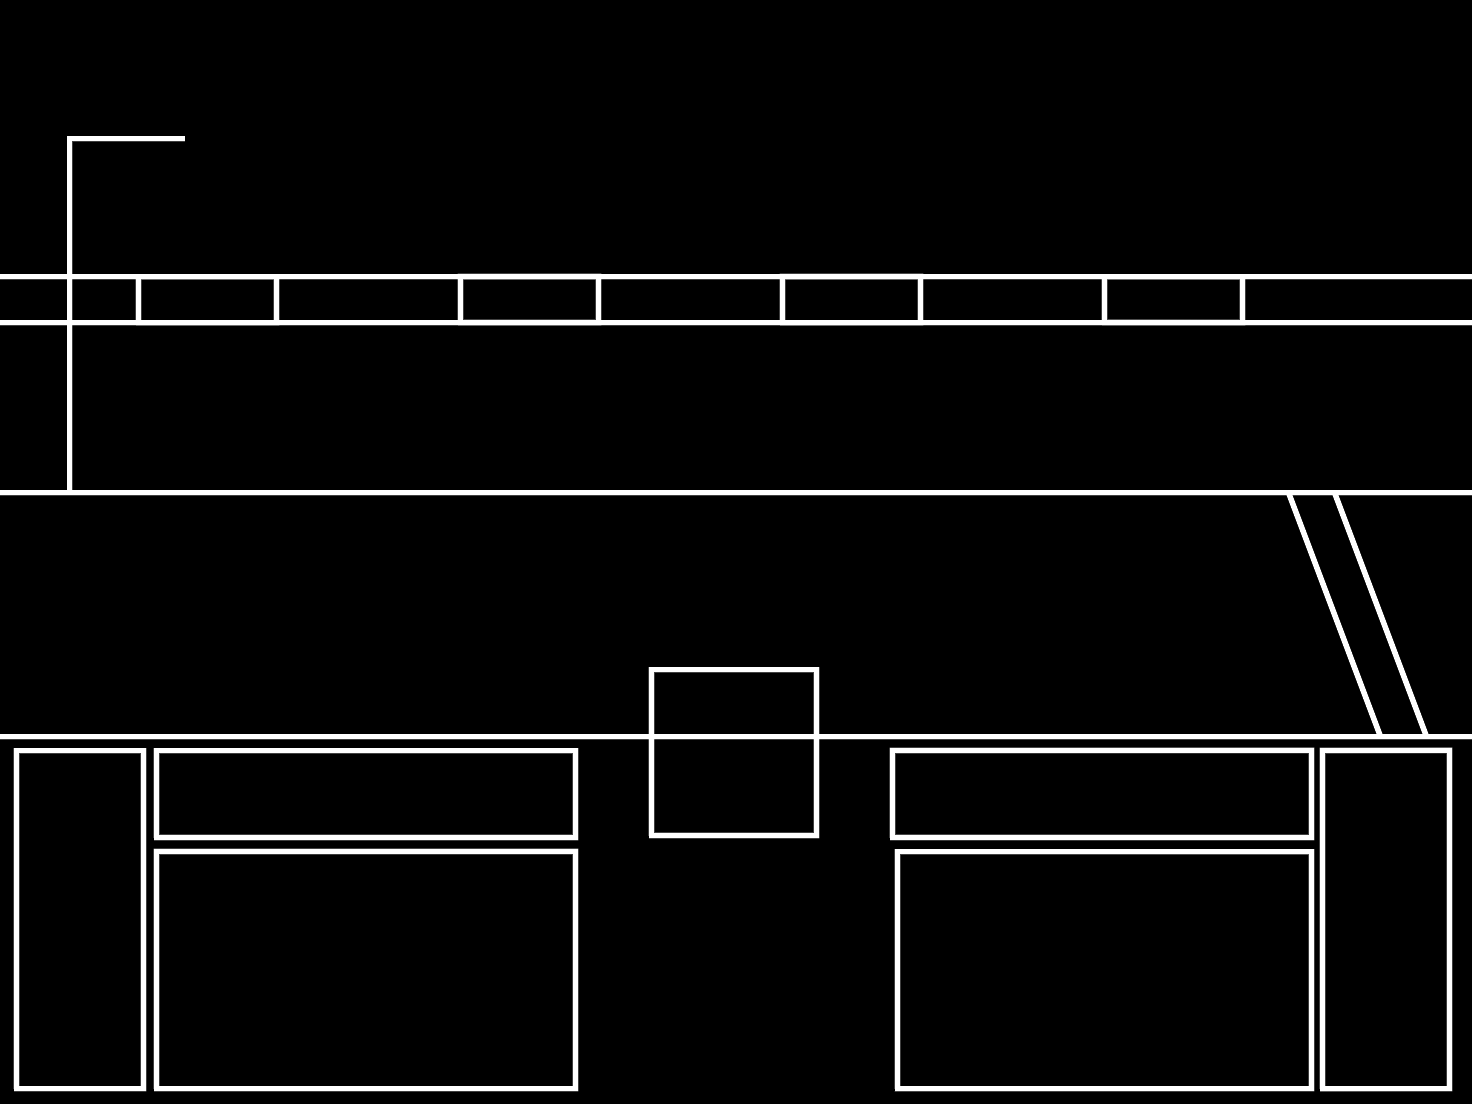
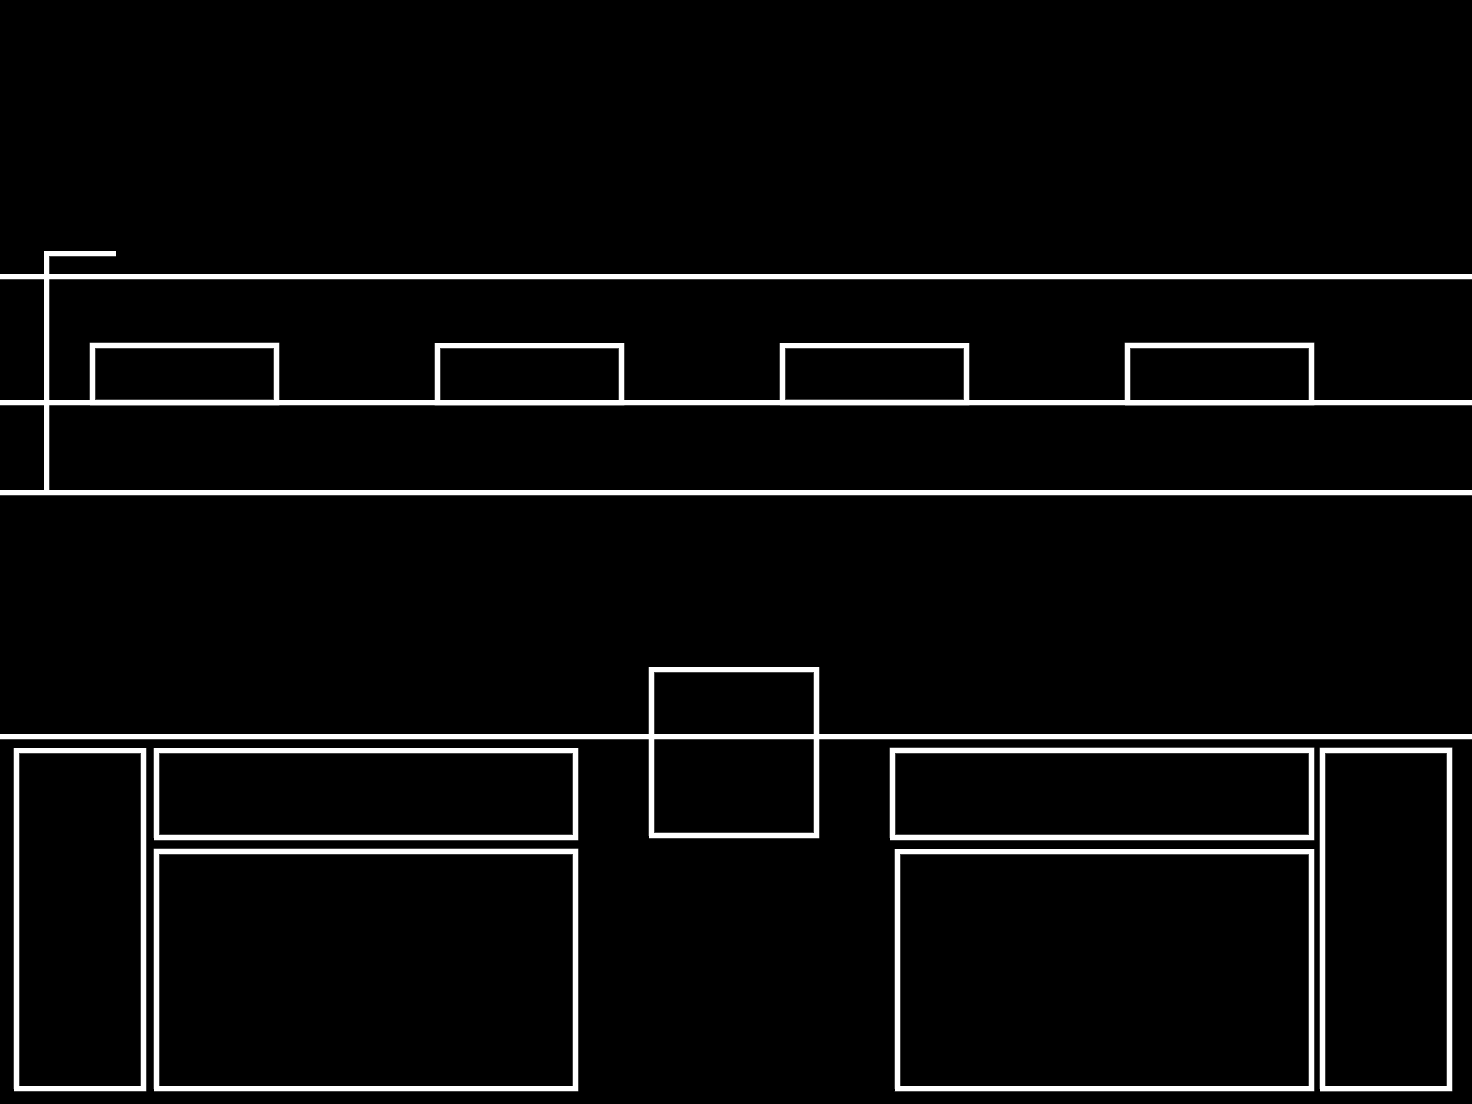
Fix the fencers' heads and surrender, the spyglass swell, fort and flags
The opponent is redrawn once per scene head, wearing it; his headless
body and each head are cut from those photographs to their own render's
outline, so head and body match, every frame faces his opponent and no
limb is lost.  The surrender's last frames are 141x114 as the game's,
the camera raised, so the man keeps his size.

A ship portrait keeps its sea, sky and glass still in every view and
moves only the ship on the swell.  The fort is drawn at the fencers'
scale, one parapet, no ladder or bucket.  The flags fly in a stronger
wind, the fly lifting and the folds lit from the side.

Changed region(s): [[0.0, 0.1232, 1.0, 0.4312], [0.875, 0.462, 0.9688, 0.6467]]

diff --git a/tools/artgen/artgen.py b/tools/artgen/artgen.py
@@ -1567,6 +1567,42 @@ def make_chain(args, spec, a, profile, seed, graph):
     return record
 
 
+def outline_workflow(photo, render, out_w, out_h, prefix, expand=-2):
+    """A redrawn frame cut to its render's own outline, grown by
+    "expand" pixels of the render (a third of the frame's; a body a
+    little in, past the redraw's backdrop at its edge, a head a little out over the
+    body it sits on, which is the same photograph) and softened: the figure keeps exactly the render's shape, so no head
+    from a reference, no lost leg and no shrunken figure come along, and
+    the redraw's background stays out."""
+    return {
+        "photo": {"class_type": "LoadImage", "inputs": {"image": photo}},
+        "render": {"class_type": "LoadImage", "inputs": {"image": render}},
+        "shape": {"class_type": "InvertMask", "inputs": {
+            "mask": ["render", 1]}},
+        "inner": {"class_type": "GrowMask", "inputs": {
+            "mask": ["shape", 0], "expand": expand,
+            "tapered_corners": True}},
+        "mimg": {"class_type": "MaskToImage", "inputs": {
+            "mask": ["inner", 0]}},
+        "mblur": {"class_type": "ImageBlur", "inputs": {
+            "image": ["mimg", 0], "blur_radius": 2, "sigma": 1.0}},
+        "msmall": {"class_type": "ImageScale", "inputs": {
+            "image": ["mblur", 0], "upscale_method": "bilinear",
+            "width": out_w, "height": out_h, "crop": "disabled"}},
+        "alpha": {"class_type": "ImageToMask", "inputs": {
+            "image": ["msmall", 0], "channel": "red"}},
+        "clear": {"class_type": "InvertMask", "inputs": {
+            "mask": ["alpha", 0]}},
+        "small": {"class_type": "ImageScale", "inputs": {
+            "image": ["photo", 0], "upscale_method": "lanczos",
+            "width": out_w, "height": out_h, "crop": "disabled"}},
+        "rgba": {"class_type": "JoinImageWithAlpha", "inputs": {
+            "image": ["small", 0], "alpha": ["clear", 0]}},
+        "save": {"class_type": "SaveImage", "inputs": {
+            "images": ["rgba", 0], "filename_prefix": prefix}},
+    }
+
+
 def silhouette_workflow(photo, render, out_w, out_h, prefix):
     """A redrawn frame cut to the figure: where the matte finds the man
     in the redraw, near its render's outline, so the redraw's background
@@ -1632,6 +1668,17 @@ def shrink_workflow(image, out_w, out_h, prefix):
 FENCER_DROP = 60
 FENCER_BANKS = [6, 6, 6, 6, 6, 6, 6, 6, 6, 4, 4, 4, 6, 6, 10, 6]
 FENCER_RENDER = (951, 609)	# a fight frame as rendered (3 x 317x203)
+# The surrender's frames (14.3 on) are 114 lines high, not 90.
+FENCER_TALL = (14, 3, 114)
+
+
+def fencer_size(m, f, k, render=False):
+    """A fight frame's size, in the pack's pixels or as rendered."""
+    tall = m == FENCER_TALL[0] and f >= FENCER_TALL[1]
+    if render:
+        return FENCER_RENDER[0], round(FENCER_RENDER[1] *
+                                       (FENCER_TALL[2] / 90 if tall else 1))
+    return round(141 * k), round((FENCER_TALL[2] if tall else 90) * k)
 
 
 def make_fencer(args, spec, a, profile, seed):
@@ -1641,7 +1688,6 @@ def make_fencer(args, spec, a, profile, seed):
     wounds as rendered, each group's frames in a grid atlas (a move a
     row) with its .sheet."""
     k = spec["pack"]["art_height"] / SCREEN_H
-    fw, fh = round(141 * k), round(90 * k)
     side = a["fencer"]["side"]
     host = args.render_host
     work = "flibustier-fencers/%s" % side
@@ -1679,38 +1725,41 @@ def make_fencer(args, spec, a, profile, seed):
     frames = [(m, f) for m in (moves or range(len(FENCER_BANKS)))
               for f in range(FENCER_BANKS[m])]
     record = {}
+    fc = a["fencer"]
     free(args.server)
     try:
-        for layer, (gid, gfile) in a["fencer"]["groups"].items():
-            redraw = layer in a["fencer"]["redraw"]
-            prompt = characters(a["fencer"]["redraw"].get(layer, ""), spec)
-            out = {}
-            if redraw:
-                # Every frame redrawn, then every one cut: the image model
-                # and the matte take turns, never both loaded.
-                for m, f in frames:
-                    src = os.path.join(local, layer, "%d.%d.png" % (m, f))
-                    ref = os.path.join(local, layer + "ref",
-                                       "%d.%d.png" % (m, f))
-                    rup = upload(args.server, ref if os.path.exists(ref)
-                                 else src, "flibustier-fencer-ref.png")
-                    png = render(args.server, ship_frame_workflow(
-                        spec, profile, seed, rup, prompt,
-                        a.get("denoise", 0.6), FENCER_RENDER[0],
-                        FENCER_RENDER[1], prefix, FENCER_RENDER))
-                    with open(os.path.join(local, "%s-photo-%d.%d.png" % (
-                            layer, m, f)), "wb") as fp:
-                        fp.write(png)
-                free(args.server)
+        # The redraws: each reference render (a fencer, the opponent with
+        # each of his heads) made a photograph, every frame; the image
+        # model and the matte take turns, never both loaded.
+        for ref, text in fc["redraw"].items():
+            prompt = characters(text, spec)
             for m, f in frames:
+                rw, rh = fencer_size(m, f, k, render=True)
+                rup = upload(args.server, os.path.join(
+                    local, ref, "%d.%d.png" % (m, f)),
+                    "flibustier-fencer-ref.png")
+                png = render(args.server, ship_frame_workflow(
+                    spec, profile, seed, rup, prompt,
+                    a.get("denoise", 0.6), rw, rh, prefix, (rw, rh)))
+                with open(os.path.join(local, "%s-photo-%d.%d.png" % (
+                        ref, m, f)), "wb") as fp:
+                    fp.write(png)
+        free(args.server)
+        for layer, (gid, gfile) in fc["groups"].items():
+            ref = fc["photo"].get(layer)
+            out = {}
+            for m, f in frames:
+                fw, fh = fencer_size(m, f, k)
                 src = os.path.join(local, layer, "%d.%d.png" % (m, f))
                 up = upload(args.server, src, "flibustier-fencer.png")
-                if redraw:
+                if ref:
+                    # Cut from its photograph to its own render's outline.
                     pup = upload(args.server, os.path.join(
-                        local, "%s-photo-%d.%d.png" % (layer, m, f)),
+                        local, "%s-photo-%d.%d.png" % (ref, m, f)),
                         "flibustier-photo.png")
-                    png = render(args.server, silhouette_workflow(
-                        pup, up, fw, fh, prefix + "-cut"))
+                    png = render(args.server, outline_workflow(
+                        pup, up, fw, fh, prefix + "-cut",
+                        -9 if layer == "body" else 3))
                 else:
                     png = render(args.server, shrink_workflow(
                         up, fw, fh, prefix + "-small"))
@@ -1721,12 +1770,17 @@ def make_fencer(args, spec, a, profile, seed):
                                      "flibustier-frame-%d-%d.png" % (m, f))
             # The atlas: move m on row m, frame f in column f.
             cols = max(FENCER_BANKS)
+            fw = fencer_size(0, 0, k)[0]
+            rows = [max(fencer_size(m, f, k)[1]
+                        for f in range(FENCER_BANKS[m]))
+                    for m in range(len(FENCER_BANKS))]
+            top = [sum(rows[:m]) for m in range(len(rows))]
             g = {"canvas": {"class_type": "EmptyImage", "inputs": {
-                "width": cols * fw, "height": len(FENCER_BANKS) * fh,
+                "width": cols * fw, "height": sum(rows),
                 "batch_size": 1, "color": 0}},
                 "clear": {"class_type": "SolidMask", "inputs": {
                     "value": 1.0, "width": cols * fw,
-                    "height": len(FENCER_BANKS) * fh}}}
+                    "height": sum(rows)}}}
             img, msk = ["canvas", 0], ["clear", 0]
             for n, ((m, f), image) in enumerate(sorted(out.items())):
                 g["f%d" % n] = {"class_type": "LoadImage", "inputs": {
@@ -1734,11 +1788,11 @@ def make_fencer(args, spec, a, profile, seed):
                 g["p%d" % n] = {"class_type": "ImageCompositeMasked",
                                 "inputs": {"destination": img,
                                            "source": ["f%d" % n, 0],
-                                           "x": f * fw, "y": m * fh,
+                                           "x": f * fw, "y": top[m],
                                            "resize_source": False}}
                 g["m%d" % n] = {"class_type": "MaskComposite", "inputs": {
                     "destination": msk, "source": ["f%d" % n, 1],
-                    "x": f * fw, "y": m * fh, "operation": "multiply"}}
+                    "x": f * fw, "y": top[m], "operation": "multiply"}}
                 img, msk = ["p%d" % n, 0], ["m%d" % n, 0]
             g["rgba"] = {"class_type": "JoinImageWithAlpha", "inputs": {
                 "image": img, "alpha": msk}}
@@ -1753,20 +1807,20 @@ def make_fencer(args, spec, a, profile, seed):
             for m in range(len(FENCER_BANKS)):
                 for f in range(FENCER_BANKS[m]):
                     lines.append("%d.%d = %d %d %d %d 0 %d" % (
-                        m, f, f * fw, m * fh, fw, fh,
-                        round(FENCER_DROP * k)))
+                        (m, f, f * fw, top[m]) + fencer_size(m, f, k) +
+                        (round(FENCER_DROP * k),)))
             with open(os.path.join(args.pack, gfile), "w") as fp:
                 fp.write("\n".join(lines) + "\n")
-            record[gid] = {"layer": layer, "redrawn": redraw,
-                           "prompt": " ".join(prompt.split()) or None}
+            record[gid] = {"layer": layer, "photo": ref}
             print("%s: %s done" % (a["id"], gid))
-            if redraw:
-                free(args.server)
     except RuntimeError as e:
         print("%s: %s" % (a["id"], e), file=sys.stderr)
         return None
-    shutil.rmtree(local)
-    return {"groups": record, "frame": [fw, fh],
+    # The renders and photographs stay (art/fencer-SIDE.frames, not
+    # part of the pack), to cut again without redrawing.
+    return {"groups": record, "frame": list(fencer_size(0, 0, k)),
+            "redraw": {r: " ".join(characters(t, spec).split())
+                       for r, t in fc["redraw"].items()},
             "render": list(FENCER_RENDER), "denoise": a.get("denoise", 0.6),
             "blend": "provenance/fencers/%s.blend" % side,
             "model_sha256": hashlib.sha256(open(script, "rb").read())
@@ -1839,15 +1893,22 @@ PORTRAIT_VIEWS = [(1, 1), (202, 1), (403, 1), (1, 202), (202, 202)]
 PORTRAIT_VIEW = 200
 
 
-def portrait_sheet_workflow(photo, mask, k, prefix):
-    """A ship portrait's 5 spyglass views from one photograph: the ship
-    rising and falling a little on the swell from view to view, each
+def portrait_sheet_workflow(sea, ship, mask, k, prefix):
+    """A ship portrait's 5 spyglass views: the same sea and sky in every
+    view, the glass held still, and the ship (cut out) riding the swell
+    on it, rising, falling and drifting a little from view to view; each
     seen through the round glass, on black."""
     side = round(PORTRAIT_VIEW * k)
     win = round(PORTRAIT_RENDER[0] * 0.9)
-    spare = PORTRAIT_RENDER[0] - win
+    # The ship placed `base` further on than her swing, so no offset is
+    # negative (the composite takes none), and the window with her.
+    base = 16
+    off = (PORTRAIT_RENDER[0] - win) // 2 + base
     g = {
-        "photo": {"class_type": "LoadImage", "inputs": {"image": photo}},
+        "sea": {"class_type": "LoadImage", "inputs": {"image": sea}},
+        "ship": {"class_type": "LoadImage", "inputs": {"image": ship}},
+        "solid": {"class_type": "InvertMask", "inputs": {
+            "mask": ["ship", 1]}},
         "glass": {"class_type": "LoadImage", "inputs": {"image": mask}},
         "gfit": {"class_type": "ImageScale", "inputs": {
             "image": ["glass", 0], "upscale_method": "bilinear",
@@ -1861,11 +1922,15 @@ def portrait_sheet_workflow(photo, mask, k, prefix):
     last = ["canvas", 0]
     for n, (vx, vy) in enumerate(PORTRAIT_VIEWS):
         t = 2 * math.pi * n / len(PORTRAIT_VIEWS)
-        cx = round(spare / 2 + spare * 0.25 * math.cos(t))
-        cy = round(spare / 2 + spare * 0.45 * math.sin(t))
+        dx = round(PORTRAIT_RENDER[0] * 0.012 * math.cos(t))
+        dy = round(PORTRAIT_RENDER[1] * 0.02 * math.sin(t))
+        g["on%d" % n] = {"class_type": "ImageCompositeMasked", "inputs": {
+            "destination": ["sea", 0], "source": ["ship", 0],
+            "x": base + dx, "y": base + dy, "resize_source": False,
+            "mask": ["solid", 0]}}
         g["c%d" % n] = {"class_type": "ImageCrop", "inputs": {
-            "image": ["photo", 0], "width": win, "height": win, "x": cx,
-            "y": cy}}
+            "image": ["on%d" % n, 0], "width": win, "height": win,
+            "x": off, "y": off}}
         g["s%d" % n] = {"class_type": "ImageScale", "inputs": {
             "image": ["c%d" % n, 0], "upscale_method": "lanczos",
             "width": side, "height": side, "crop": "disabled"}}
@@ -1937,24 +2002,11 @@ def make_portrait(args, spec, a, profile, seed):
             f.write(cut)
         cup = upload(args.server, cpath, "flibustier-portrait-cut.png")
         sup = upload(args.server, spath, "flibustier-portrait-sea.png")
-        onsea = render(args.server, {
-            "sea": {"class_type": "LoadImage", "inputs": {"image": sup}},
-            "ship": {"class_type": "LoadImage", "inputs": {"image": cup}},
-            "solid": {"class_type": "InvertMask", "inputs": {
-                "mask": ["ship", 1]}},
-            "put": {"class_type": "ImageCompositeMasked", "inputs": {
-                "destination": ["sea", 0], "source": ["ship", 0], "x": 0,
-                "y": 0, "resize_source": False, "mask": ["solid", 0]}},
-            "save": {"class_type": "SaveImage", "inputs": {
-                "images": ["put", 0], "filename_prefix": prefix + "-on"}}})
-        with open(ppath, "wb") as f:
-            f.write(onsea)
-        pup = upload(args.server, ppath, "flibustier-portrait-photo.png")
         mask = upload(args.server, os.path.join(HERE, "layouts",
                                                 "spyglass.png"),
                       "flibustier-spyglass.png")
         sheet = render(args.server, portrait_sheet_workflow(
-            pup, mask, k, prefix + "-views"))
+            sup, cup, mask, k, prefix + "-views"))
     except RuntimeError as e:
         print("%s: %s" % (a["id"], e), file=sys.stderr)
         return None

diff --git a/tools/artgen/fencers/fencer.py b/tools/artgen/fencers/fencer.py
@@ -34,6 +34,10 @@ import bpy
 from mathutils import Vector
 
 BANKS = [6, 6, 6, 6, 6, 6, 6, 6, 6, 4, 4, 4, 6, 6, 10, 6]
+# The fall's last frames (14.3 on), the arms raised in surrender, are
+# 141x114, 24 lines taller than the others (the game draws them 24
+# higher, so the feet stay where they were).
+TALL_MOVE, TALL_FROM, TALL = 14, 3, 114 / 90
 FRAME_M = 3.08		# the frame's width in metres (141 pixels)
 # Where each fencer stands in his frame, as in the game's: the player
 # right of the middle facing left, the opponent left of it facing right
@@ -389,9 +393,25 @@ def scene(fw, fh):
     # the frame's bottom, the fencer a little right of its middle.
     high = FRAME_M * fh / fw
     cob.location = (CAMERA_X[SIDE], -20, high / 2 - 0.04)
+    cob["fw"], cob["fh"] = fw, fh
     cob.rotation_euler = (math.pi / 2, 0, 0)
     bpy.context.collection.objects.link(cob)
     sc.camera = cob
+
+
+def frame_size(move, k):
+    """A frame taller for the surrender, the camera raised with it so the
+    ground stays at the frame's bottom."""
+    sc = bpy.context.scene
+    cob = sc.camera
+    fw, fh = cob["fw"], cob["fh"]
+    if move == TALL_MOVE and k >= TALL_FROM:
+        th = round(fh * TALL)
+    else:
+        th = fh
+    sc.render.resolution_y = th
+    high = FRAME_M * fh / fw
+    cob.location.z = high / 2 - 0.04 + FRAME_M * (th - fh) / fw / 2
 
 
 def show(objects, holdouts):
@@ -430,11 +450,11 @@ def main():
     body = f.layers["body"]
     heads = [ob for parts in f.layers["heads"].values() for ob in parts]
     passes = [("body", body, [])]
-    if f.layers["heads"]:
-        # The opponent's body with a head on, for the redraw to see a
-        # man (a body alone it gives a fencing mask); the body's own
-        # outline still cuts it.
-        passes.append(("bodyref", body + f.layers["heads"]["head1"], []))
+    # The opponent with each of his heads on, the picture redrawn: the
+    # body is cut from the first (a body alone the redraw gives a
+    # fencing mask), each head from its own, so head and body match.
+    for name, parts in f.layers["heads"].items():
+        passes.append(("bodyref" + name[4:], body + parts, []))
     for name, parts in f.layers["heads"].items():
         passes.append((name, parts, body))
     for name, parts in f.layers["weapon"].items():
@@ -446,6 +466,7 @@ def main():
     for move in moves:
         for k in range(BANKS[move]):
             f.pose(move_pose(move, k))
+            frame_size(move, k)
             for name, objects, holdouts in passes:
                 show(objects, holdouts)
                 d = os.path.join(args.out, name)

diff --git a/tools/artgen/flags/flag.py b/tools/artgen/flags/flag.py
@@ -104,12 +104,18 @@ def wave(ob, width, phase):
     for v in me.vertices:
         x, z = v.co.x, v.co.z
         u = x / width
-        y = 0.22 * u * math.sin(2 * math.pi * (1.4 * u - phase)) + \
-            0.07 * u * math.sin(2 * math.pi * (3.0 * u + 0.7 * z - 2 * phase))
+        # Strong wind: deep folds running out to the fly, the cloth
+        # pinned at the staff (u 0) and freest at the fly.
+        a = u ** 0.8
+        y = 0.30 * a * math.sin(2 * math.pi * (1.3 * u - phase)) + \
+            0.10 * a * math.sin(2 * math.pi * (2.7 * u + 0.8 * z - 2 * phase))
         v.co.y = y * width
-        # The fly sags and flutters a little in height too.
-        v.co.z = z - 0.06 * width * u * u + \
-            0.02 * width * u * math.sin(2 * math.pi * (2 * u - phase))
+        # Folds pull the cloth in towards the staff, and its fly lifts
+        # and falls with them, so the outline moves too.
+        v.co.x = x - 0.10 * width * a * (1 + math.cos(2 * math.pi * (
+            1.3 * u - phase))) / 2
+        v.co.z = z - 0.05 * width * u * u + \
+            0.07 * width * a * math.sin(2 * math.pi * (1.1 * u - phase))
 
 
 def main():
@@ -139,10 +145,12 @@ def main():
     world.node_tree.nodes["Background"].inputs["Strength"].default_value = 0.8
     sc.world = world
     sun = bpy.data.lights.new("sun", "SUN")
-    sun.energy = 3.0
+    sun.energy = 3.5
     sob = bpy.data.objects.new("sun", sun)
-    sob.rotation_euler = (math.radians(40), math.radians(-30),
-                          math.radians(20))
+    # Low from the side, so each fold lights on one face and shades on
+    # the other.
+    sob.rotation_euler = (math.radians(70), math.radians(-55),
+                          math.radians(10))
     bpy.context.collection.objects.link(sob)
 
     width, height = 1.5, 1.0

diff --git a/tools/artgen/layouts/sketch.py b/tools/artgen/layouts/sketch.py
@@ -156,12 +156,12 @@ ALLEY = [
 # battlements; the fighters stand on the walkway, in front of its rail.
 FORT = [
     line((0, 120), (640, 120)),				# the sea's horizon
-    line((0, 140), (640, 140)),				# the battlements' top
-    rect(60, 120, 120, 140), rect(200, 120, 260, 140),	# merlons
-    rect(340, 120, 400, 140), rect(480, 120, 540, 140),
+    # One parapet: its merlons standing on its top, the rail before it.
+    rect(40, 150, 120, 175), rect(190, 150, 270, 175),	# merlons
+    rect(340, 150, 420, 175), rect(490, 150, 570, 175),
+    line((0, 175), (640, 175)),				# the parapet's top
     line((0, 214), (640, 214)),				# the walkway's rail
-    line((30, 214), (30, 60), (80, 60)),			# a gallows
-    line((560, 214), (600, 320)), line((580, 214), (620, 320)),	# a ladder
+    line((20, 214), (20, 110), (50, 110)),		# a gallows
     line((0, 320), (640, 320)),
 ]
 
